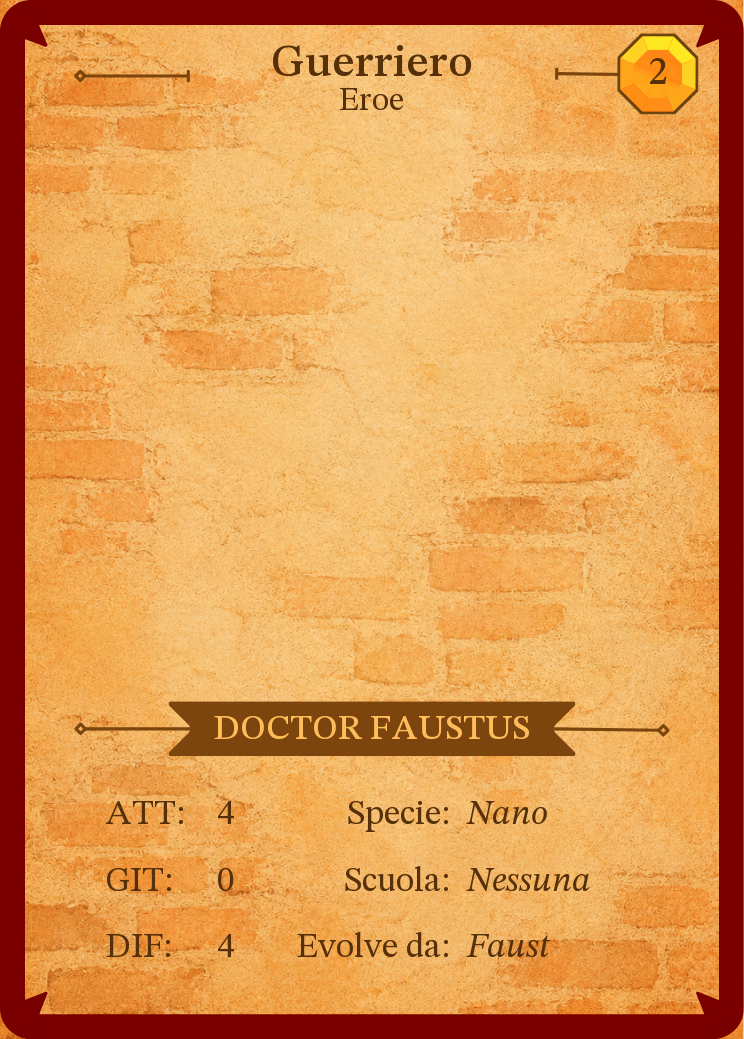
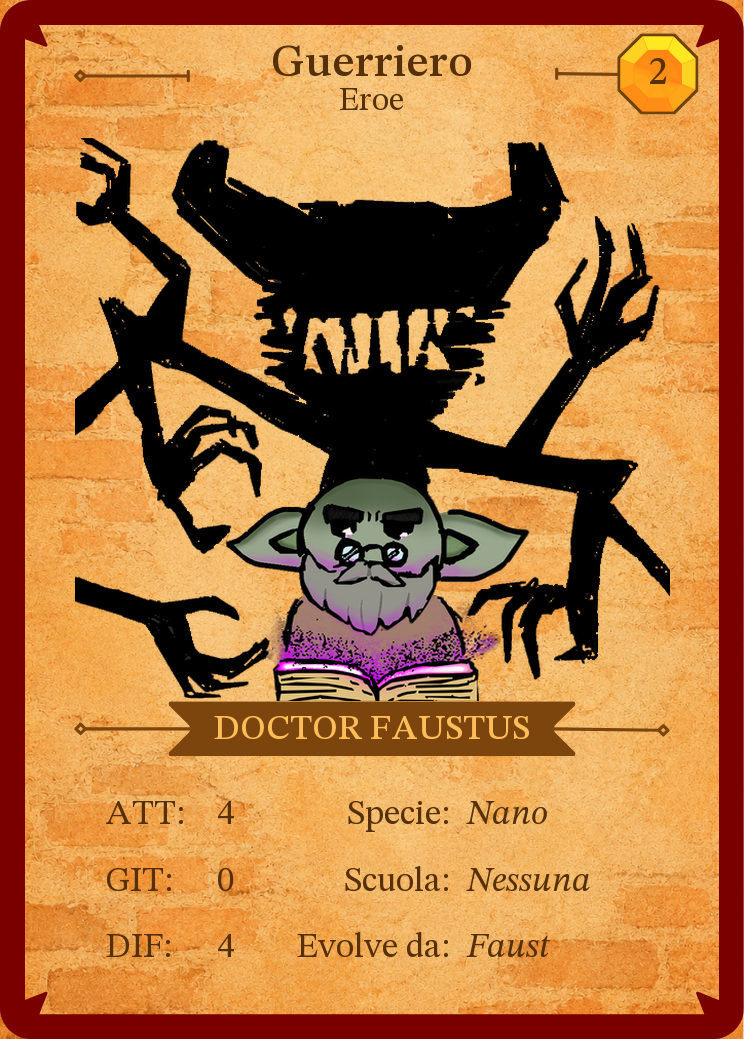
Added new resize functionality to card factory and multiple new artworks

Changed region(s): [[0.0927, 0.1232, 0.8965, 0.6776]]

diff --git a/card_factory/1_resize_input.py b/card_factory/1_resize_input.py
@@ -1,24 +1,34 @@
 #!/usr/bin/env python3
 """
 resize_input.py
-Ritaglia le aree bianche esterne alla carta e ridimensiona ogni pagina a 63×88 mm.
+Due modalità, a seconda di dove si trova <nome>:
 
-Il bounding box viene rilevato singolarmente per ogni pagina (alcuni PDF hanno
-pagine con margini o dimensioni diverse tra loro, es. carte Eroe più alte).
-Il file viene risalvato in-place nella cartella input/.
+  - input/<nome>.pdf esiste  → ritaglia le aree bianche esterne alla carta e
+    ridimensiona ogni pagina a 63×88 mm. Il file viene risalvato in-place.
+
+  - images/<nome>.png esiste → ridimensiona l'illustrazione già pronta (non
+    passata da 2_extract_images.py) alle dimensioni standard usate da tutte
+    le altre immagini in images/ (579×552 px per le carte Eroe, 579×332 px
+    per le altre). Adatta alla larghezza mantenendo le proporzioni (nessuna
+    distorsione) e aggiunge trasparenza sopra se il risultato è più basso del
+    canvas target; se è più alto, ritaglia l'eccesso dall'alto. Il file viene
+    risalvato in-place in images/.
 
 Utilizzo:
-    python resize_input.py <deck>
+    python resize_input.py <nome>
     # es. python resize_input.py deck_color  →  input/deck_color.pdf
+    # es. python resize_input.py eracles     →  images/eracles.png
 """
 
 import argparse
+import json
 import sys
 import tempfile
 from pathlib import Path
 
 import fitz  # PyMuPDF
 import numpy as np
+from PIL import Image
 
 
 CARD_W_PT = 63.0 / 25.4 * 72   # ≈ 178.58 pt
@@ -26,6 +36,14 @@ CARD_H_PT = 88.0 / 25.4 * 72   # ≈ 249.45 pt
 
 DETECT_DPI = 150        # DPI per l'analisi del bounding box
 WHITE_THRESHOLD = 240   # tutti i canali >= soglia → pixel bianco
+
+# Dimensioni target per le immagini in images/ (larghezza illustrazione a 300 DPI,
+# stesse di tutte le illustrazioni già presenti nella cartella).
+IMG_TARGET_WIDTH = 579
+IMG_HERO_HEIGHT = 552
+IMG_STANDARD_HEIGHT = 332
+
+CARDS_JSON_PATH = Path("..") / "data" / "cards.json"
 
 
 def find_content_rect(page: fitz.Page) -> fitz.Rect:
@@ -49,6 +67,44 @@ def find_content_rect(page: fitz.Page) -> fitz.Rect:
         y0_px / scale,
         (x1_px + 1) / scale,
         (y1_px + 1) / scale,
+    )
+
+
+def is_hero_card(card_id: str) -> bool:
+    """Una carta è di tipo Eroe se è un Guerriero con evolves_from valorizzato."""
+    with open(CARDS_JSON_PATH, encoding="utf-8") as f:
+        data = json.load(f)
+    for warrior in data["warriors"]:
+        if warrior["id"] == card_id:
+            return warrior.get("evolves_from") is not None
+    return False
+
+
+def process_image(png_path: Path) -> None:
+    """Adatta l'illustrazione alla larghezza target e porta l'altezza al canvas
+    standard aggiungendo trasparenza sopra (o ritagliando l'eccesso dall'alto)."""
+    target_h = IMG_HERO_HEIGHT if is_hero_card(png_path.stem) else IMG_STANDARD_HEIGHT
+
+    img = Image.open(png_path).convert("RGBA")
+    scale = IMG_TARGET_WIDTH / img.width
+    fitted_h = int(round(img.height * scale))
+    fitted = img.resize((IMG_TARGET_WIDTH, fitted_h), Image.LANCZOS)
+
+    canvas = Image.new("RGBA", (IMG_TARGET_WIDTH, target_h), (0, 0, 0, 0))
+    if fitted_h <= target_h:
+        canvas.paste(fitted, (0, target_h - fitted_h), fitted)
+        note = f"+{target_h - fitted_h}px trasparenti sopra"
+    else:
+        crop_top = fitted_h - target_h
+        fitted = fitted.crop((0, crop_top, IMG_TARGET_WIDTH, fitted_h))
+        canvas.paste(fitted, (0, 0), fitted)
+        note = f"ritagliati {crop_top}px in alto"
+
+    canvas.save(png_path, format="PNG")
+    kind = "eroe" if target_h == IMG_HERO_HEIGHT else "standard"
+    print(
+        f"{png_path.name}: {img.size} -> larghezza {IMG_TARGET_WIDTH} "
+        f"({fitted_h}px risultanti, {note}) -> canvas {kind} {IMG_TARGET_WIDTH}x{target_h}"
     )
 
 
@@ -91,17 +147,24 @@ def process_pdf(pdf_path: Path) -> None:
 
 def main():
     parser = argparse.ArgumentParser(
-        description="Ritaglia bordi bianchi e ridimensiona un PDF di carte a 63×88 mm."
+        description="Ridimensiona un PDF in input/ (deck) oppure un'illustrazione in images/ (nome carta)."
     )
-    parser.add_argument("deck", help="Nome del deck (es. deck_color → input/deck_color.pdf)")
+    parser.add_argument(
+        "nome",
+        help="Nome del deck (input/<nome>.pdf) o id carta (images/<nome>.png)",
+    )
     args = parser.parse_args()
 
-    pdf_path = Path("input") / f"{args.deck}.pdf"
-    if not pdf_path.exists():
-        print(f"Errore: file non trovato: {pdf_path}", file=sys.stderr)
-        sys.exit(1)
+    pdf_path = Path("input") / f"{args.nome}.pdf"
+    png_path = Path("images") / f"{args.nome}.png"
 
-    process_pdf(pdf_path)
+    if pdf_path.exists():
+        process_pdf(pdf_path)
+    elif png_path.exists():
+        process_image(png_path)
+    else:
+        print(f"Errore: nessun file trovato ({pdf_path} né {png_path})", file=sys.stderr)
+        sys.exit(1)
 
 
 if __name__ == "__main__":

diff --git a/card_factory/README.md b/card_factory/README.md
@@ -44,6 +44,8 @@ python 1_resize_input.py <nome_deck>
 
 Rileva automaticamente il bounding box del contenuto sulla prima pagina, ritaglia i margini bianchi e ridimensiona ogni pagina a **63 × 88 mm**. Salva in-place su `input/`.
 
+**Variante senza PDF:** se `images/<id_carta>.png` esiste già (illustrazione ritagliata a mano), `python 1_resize_input.py <id_carta>` la ridimensiona in-place alle dimensioni standard. A questo punto si può passare direttamente allo Step 3.
+
 ---
 
 ### Step 2 — Estrai le illustrazioni
